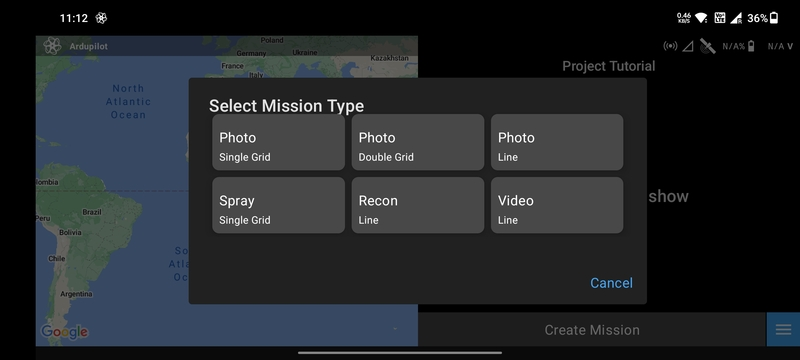
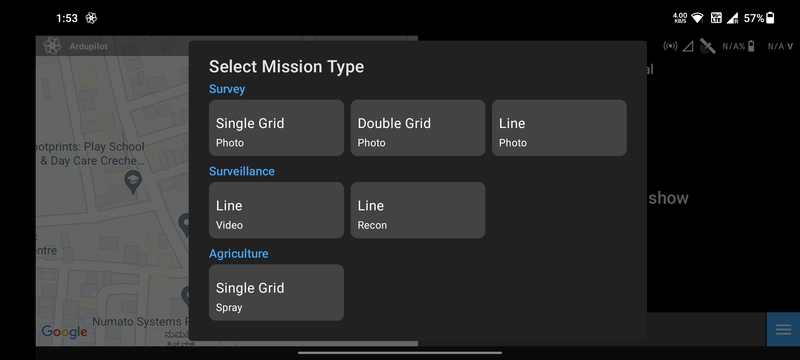
Update mission list screen photos

diff --git a/docs/launchpad/overview/mission-list-screen.md b/docs/launchpad/overview/mission-list-screen.md
@@ -10,14 +10,17 @@ The Mission List Screen helps you manage several autonomous missions inside a pa
 
 ## Create Mission
 
-LaunchPad currently offers 6 different types of automated missions:
+LaunchPad currently offers 6 different types of automated missions under 3 categories:
 
-- [`Photo Single Grid`](/launchpad/mission-planning/photo-single-grid.md)
-- [`Photo Double Grid`](/launchpad/mission-planning/photo-double-grid.md)
-- [`Photo Line`](/launchpad/mission-planning/photo-line.md)
-- [`Video Line`](/launchpad/mission-planning/video-line.md)
-- [`Recon Line`](/launchpad/mission-planning/recon-line.md)
-- [`Spray Single Grid`](/launchpad/mission-planning/spray-single-grid.md)
+- Survey
+  - [`Photo Single Grid`](/launchpad/mission-planning/photo-single-grid.md)
+  - [`Photo Double Grid`](/launchpad/mission-planning/photo-double-grid.md)
+  - [`Photo Line`](/launchpad/mission-planning/photo-line.md)
+- Surveillance
+  - [`Video Line`](/launchpad/mission-planning/video-line.md)
+  - [`Recon Line`](/launchpad/mission-planning/recon-line.md)
+- Agriculture
+  - [`Spray Single Grid`](/launchpad/mission-planning/spray-single-grid.md)
 
 ![Create Mission](./img/mission-list-screen-create-mission.jpg)
 

diff --git a/docs/launchpad/getting-started/login.md b/docs/launchpad/getting-started/login.md
@@ -12,6 +12,6 @@ LaunchPad provides several login methods:
 
 `Login with Google` requires no separate registration process.
 
-For the other methods, user are required to register themselves using the `Sign up` option.
+For the other methods, users are required to register themselves using the `Sign up` option.
 
 ![Login](./img/login.jpg)
